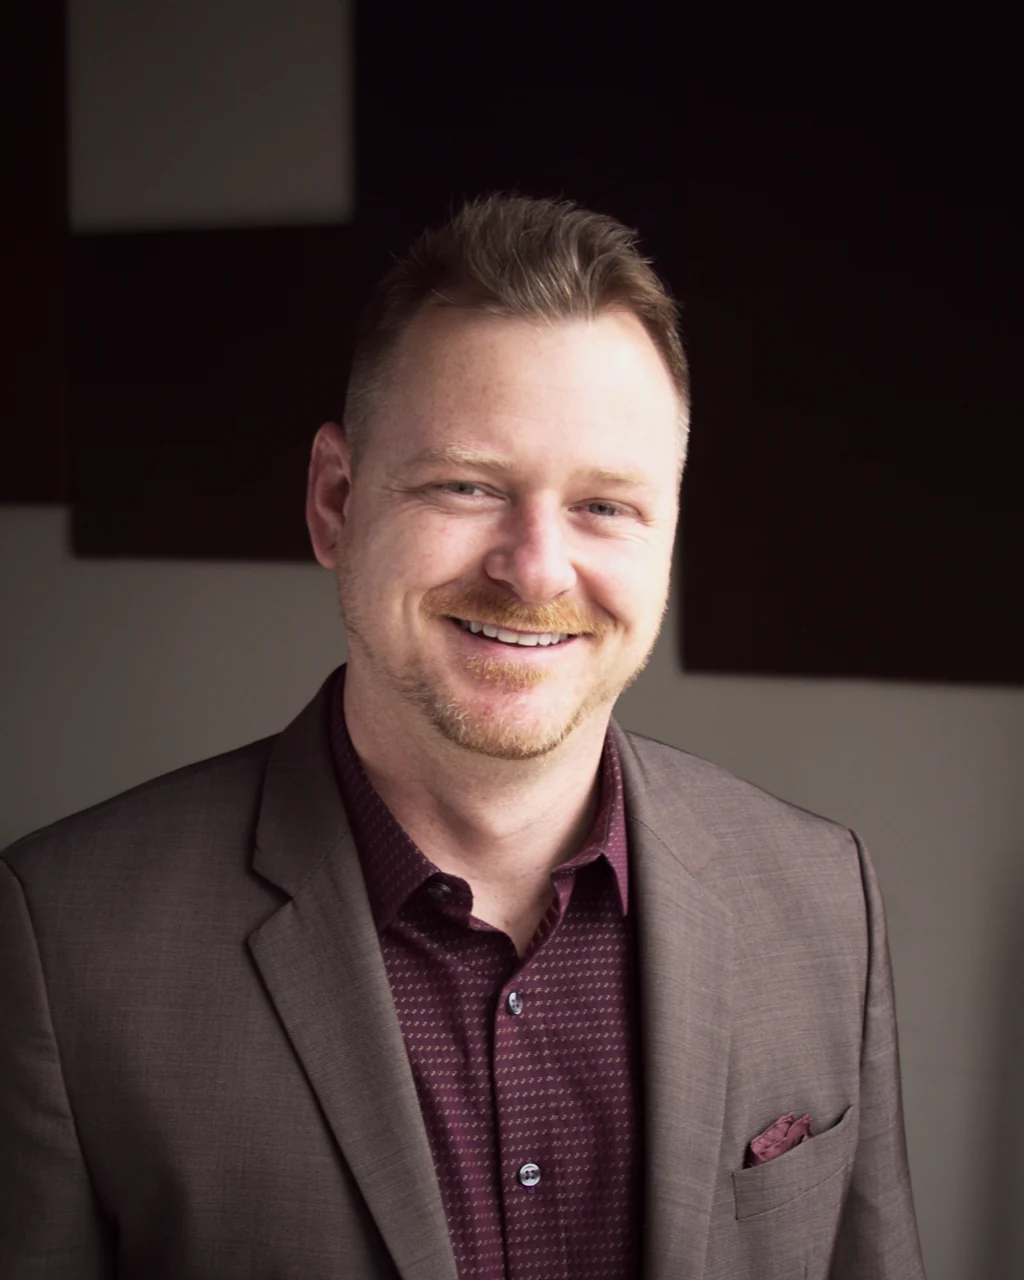
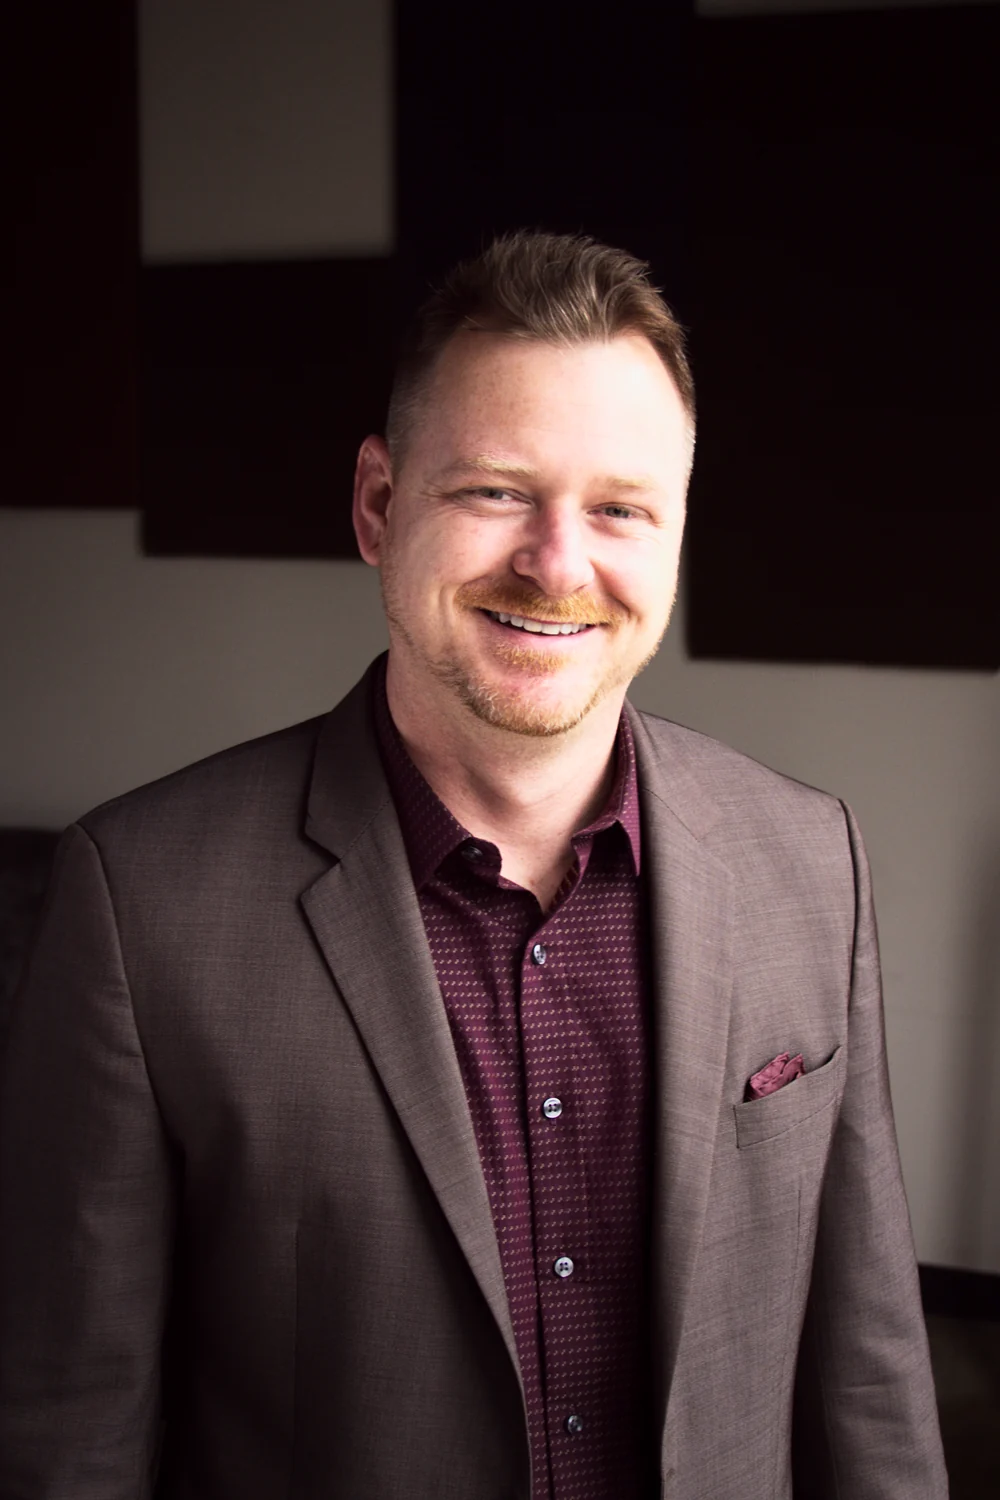
feat(home): taller portrait crop with a richer grade
- 2:3 crop showing more of the jacket, 448px max on desktop
- Deeper blacks, more contrast, cooler room so the brown cast is gone

Claude-Session: https://claude.ai/code/session_01GEcFuacA1KDBMhAXTmWhNq

diff --git a/src/app/home-content.tsx b/src/app/home-content.tsx
@@ -117,7 +117,7 @@ export default function HomeContent() {
                 </div>
 
                 <div className="relative z-10 w-full px-6 py-20 lg:px-12 xl:px-20">
-                    <div className="mx-auto grid max-w-7xl items-center gap-12 lg:grid-cols-[minmax(0,1.6fr)_minmax(0,1fr)] lg:gap-16">
+                    <div className="mx-auto grid max-w-7xl items-center gap-12 lg:grid-cols-[minmax(0,1.35fr)_minmax(0,1fr)] lg:gap-16">
                         {/* Content */}
                         <div>
                             <div
@@ -207,7 +207,7 @@ export default function HomeContent() {
 
                         {/* Image */}
                         <div
-                            className="relative mx-auto w-full max-w-[15rem] sm:max-w-xs lg:mx-0 lg:ml-auto lg:max-w-sm"
+                            className="relative mx-auto w-full max-w-[17rem] sm:max-w-xs lg:mx-0 lg:ml-auto lg:max-w-md"
                             style={{
                                 transform: isVisible
                                     ? "translateY(0) scale(1)"
@@ -216,13 +216,13 @@ export default function HomeContent() {
                                 transition: "all 1.2s cubic-bezier(0.16, 1, 0.3, 1) 0.3s",
                             }}
                         >
-                            <div className="bg-card relative aspect-4/5 overflow-hidden rounded-2xl">
+                            <div className="bg-card relative aspect-2/3 overflow-hidden rounded-2xl">
                                 <Image
                                     alt="Aaron Davis"
                                     src={aaronPortrait}
                                     fill
                                     className="object-cover"
-                                    sizes="(max-width: 640px) 240px, 384px"
+                                    sizes="(max-width: 640px) 272px, 448px"
                                     priority
                                 />
                             </div>
